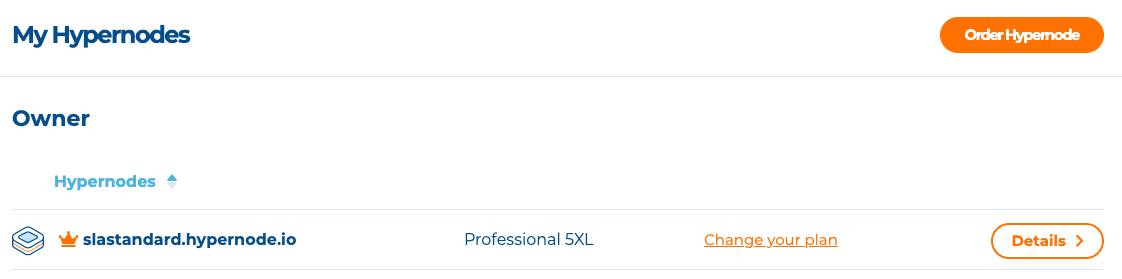
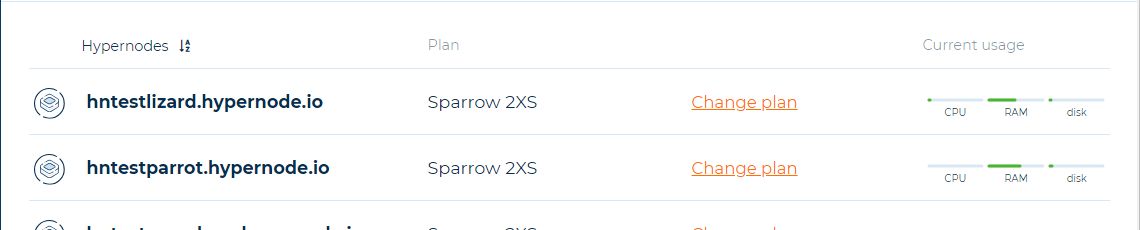
updating screenshots and cancelling via CP not chargebee

diff --git a/docs/about-hypernode/billing/billing-faq-for-the-control-panel.md b/docs/about-hypernode/billing/billing-faq-for-the-control-panel.md
@@ -38,30 +38,29 @@ If you log in via [my.hypernode.com](https://auth.hypernode.com/), please use th
 
 - Log into your Control Panel via [my.hypernode.com](http://my.hypernode.com)
 - There are two ways to go the **Change plan** page:
-  - Go to the**Change plan** page by selecting it from the sidebar on the left. Move your mouse over **Hypernodes** to make the menu appear:
-    ![](_res/YqbbPnc1vfVsic4Kn0_vQRU6kipJ9FLviw.png)
-  - Or click **Change your plan** in the Hypernode overview:
+  - Click **Change plan** in the Hypernode overview:
     ![](_res/4tWafqDklisEwVNRFCA8VVvhf0zHkYMi1A.png)
+  - Go to the**Change plan** page by going to settings from the sidebar on the left and scrolling down. Move your mouse over **Hypernodes** to make the menu appear:
+    ![](_res/YqbbPnc1vfVsic4Kn0_vQRU6kipJ9FLviw.png)
 - You'll now see an overview of your current plan on the left and the new plan on the right:
   ![](_res/tkmbOB9hsfJ0SfLR-TNCFtKqzRNgC6bvmA.png)
 - Select the desired plan and the type of environment, Development or Production.
 - Select an add-on. Read more about our two SLA levels [here](../support/emergency-support-outside-office-hours.md).
 - Agree with terms and conditions and click **Change** to change this plan. Your plan will be changed immediately.
+- You can alternatively schedule the change plan for desired date and time.
 - Warnings, if applicable, will be shown on the left.
 
 ## How to Cancel Your Plan
 
 - Log in to the [Control Panel](https://my.hypernode.com/).
-- Click on your username in the top right.
-- Select **Billing portal** from the menu.
-- In the Billing portal, select your current plan.
-- Then click on **Cancel subscription**.
-- The next screen confirms when your subscription will end. Please submit the reason of your cancellation as your feedback is valuable to us.
-- Click on **Confirm cancellation** to finalise your cancellation.
+- Go to **settings** of the Hypernode you want to cancel.
+- Scroll down to **Cancel my subscription**
+- The next screen confirms that your subscription will end. Please submit the reason of your cancellation as your feedback is valuable to us.
+- Click on **Continue to cancellation** to confirm the ending date of your subscription.
 
 ### Cancellation Per End Date
 
-You can cancel your subscription at any time via your control panel. The end date of your subscription is always the first of the next month. Example: if you cancel your subscription on the 15th of June, your Hypernode will be no longer available from the 1st of July onwards.
+You can cancel your subscription at any time via your Control Panel. The end date of your subscription is always the first of the next month. Example: if you cancel your subscription on the 15th of June, your Hypernode will be no longer available from the 1st of July onwards.
 
 ## How to Add a Purchase Order Number
 
